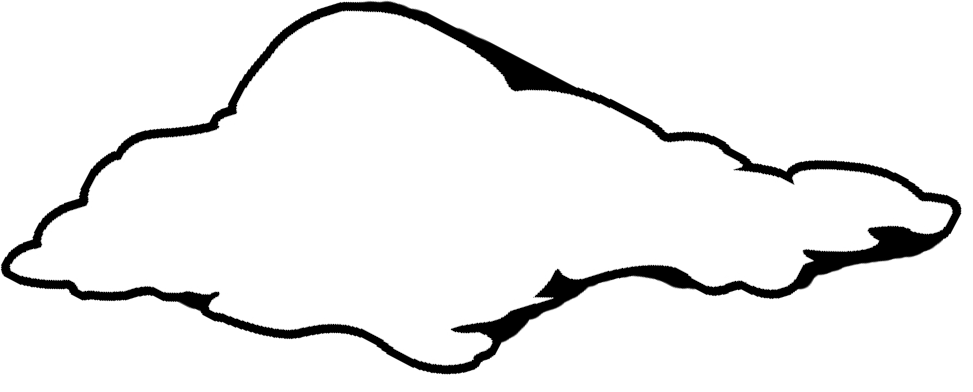
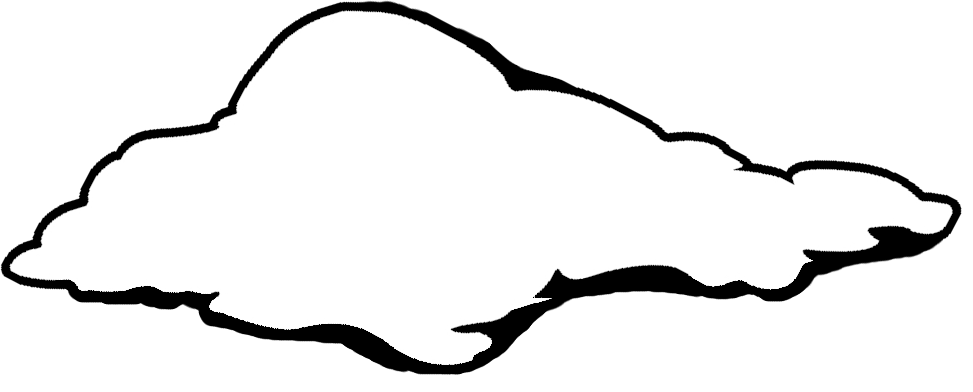
fixed clock leading zero bug; cleaned up cloud sprites and animation

diff --git a/P5Wallpaper/script.js b/P5Wallpaper/script.js
@@ -28,22 +28,23 @@ function updateDate() {
     month = checkZero(date.getMonth() + 1);     //+1 bc months start at 0
     year = checkZero(date.getFullYear());
 
-    hours = checkZero(date.getHours());
-    minutes = checkZero(date.getMinutes());
-    seconds = checkZero(date.getSeconds());
+    hours = date.getHours();
+    minutes = date.getMinutes();
+    seconds = date.getSeconds();
     currentTime = hours + ":" + minutes + ":" + seconds;
 
     calDay.innerHTML = day;
     calMonth.innerHTML = month;
     calYear.innerHTML = year;
 
+    checkDayNight();                                          //find background day/night before time conversion
+
     if (timeUnit == "standard" && hours > 12) hours -= 12;    //standard time
                                                               //military time by default
-    clockHr.innerHTML = hours;
-    clockMin.innerHTML = minutes;
-    clockSec.innerHTML = seconds;
+    clockHr.innerHTML = checkZero(hours);
+    clockMin.innerHTML = checkZero(minutes);
+    clockSec.innerHTML = checkZero(seconds);
 
-    checkDayNight();
     setTimeout(updateDate, 1000)        //update every second
 }
 
@@ -163,7 +164,7 @@ function toggleClouds() {
 
 let cloudStatus = "";
 function checkDayNight() {      //city day/night cycle
-    if (hours >= 6 && hours <= 18){     //day = 6am->6pm
+    if (hours >= 6 && hours < 18){     //day = 6am->6pm
         city.style.backgroundImage = "url(assets/img/cityDay.jpg)";
         city.style.animation = "none";
 
@@ -219,6 +220,5 @@ function switchTempUnit() {
 // [-]      lore accurate calendar display                                              high
 // [-]      lore accurate weather display                                               high
 // [-]      music player                                                                high
-// [-]      make cloud path more horizontal                                             med
 
 // [WIP]    toggle individual displays (clouds, clock, calendar, weather, etc.)         med

diff --git a/P5Wallpaper/style.css b/P5Wallpaper/style.css
@@ -137,7 +137,7 @@ body {
   padding: 0%;
   z-index: 5;
   left: 50%;
-  top: 100%;
+  top: 150%;
   height: auto;
   width: 50%;
   transition: all 1s;
@@ -145,15 +145,15 @@ body {
 }
 .cloudBigBar{
   animation: orbit 200s linear infinite;
-  width: 50%;
+  width: 1824px;
 }
 .cloudMedBar {
   animation: orbitReverse 160s linear infinite;
-  width: 65%;
+  width: 1920px;
 }
 .cloudSmallBar {
-  animation: orbit 140s linear infinite;
-  width: 70%;
+  animation: orbit 150s linear infinite;
+  width: 1920px;
 }
 
 .cloudBig, .cloudMed, .cloudSmall {
@@ -177,25 +177,25 @@ body {
 
 @keyframes orbit {
   0% {
-    transform: rotate(15deg);
+    transform: rotate(-30deg);
   }
   50% {
-    transform: rotate(-105deg);
+    transform: rotate(-90deg);
   }
   100% {
-    transform: rotate(-240deg);
+    transform: rotate(-150deg);
   }
 }
 
 @keyframes orbitReverse {
   0% {
-    transform: rotate(-240deg);
+    transform: rotate(-150deg);
   }
   50% {
-    transform: rotate(-105deg);
+    transform: rotate(-90deg);
   }
   100% {
-    transform: rotate(15deg);
+    transform: rotate(-30deg);
   }
 }
 
@@ -282,7 +282,6 @@ body {
   border: 3px;
   border-color: #000;
 }
-
 
 .menu-button-inner {
   position: absolute;
